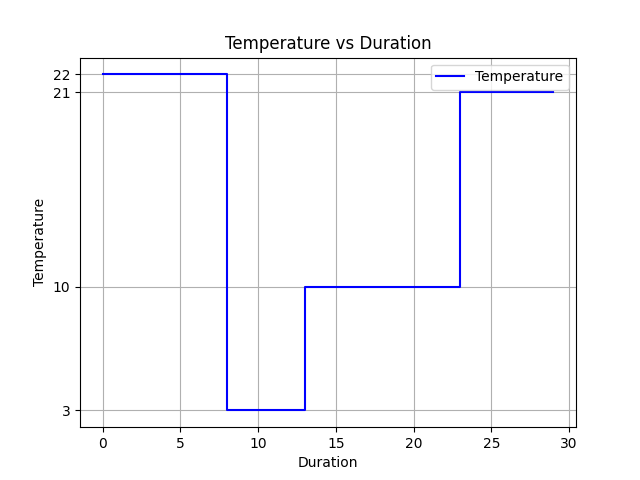
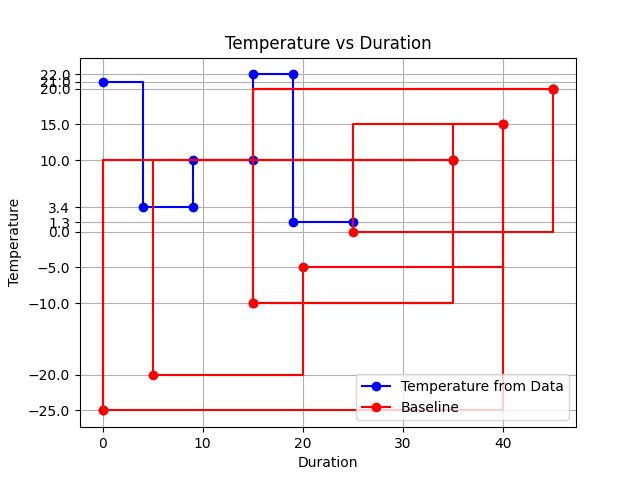
Small changes for baseline graph

diff --git a/app.py b/app.py
@@ -92,6 +92,7 @@ def index():
             })
             step_index += 1
 
+        # Extract x-values and y-values from the loop data
         x_values = [0]
         y_values = [float(source_temperature)]
 
@@ -101,11 +102,20 @@ def index():
             y_values.extend([float(step['temperature']), float(step['temperature'])])
             cumulative_duration += step['duration']
 
+        baseline_coordinates = [(0, 20), (4, 20), (2, -10), (6, 10), (4, -25), (4, 15),
+                                      (2, 10), (4, -20), (4, -5), (6, 15), (2, 0), (10, 20),
+                                      (4, -10), (16, 10), (4, -25)]
+
+        x_values_baseline = [cumulative_duration + duration for _, duration in baseline_coordinates]
+        y_values_baseline = [y for _, y in baseline_coordinates]
+
         fig, ax = plt.subplots()
 
-        ax.step(x_values, y_values, where='post', color='blue', label='Temperature')
+        ax.step(x_values, y_values, where='post', color='blue', label='Temperature from Data', marker='o')
 
-        sorted_y_ticks = sorted(set(y_values))
+        ax.step(x_values_baseline, y_values_baseline, where='post', color='red', label='Baseline',marker='o')
+
+        sorted_y_ticks = sorted(set(y_values + y_values_baseline))
         ax.set_yticks(sorted_y_ticks)
 
         ax.set_xlabel('Duration')
@@ -125,4 +135,4 @@ def index():
     return render_template('index.html')
 
 if __name__ == '__main__':
-    app.run(debug=True)
+    app.run()
